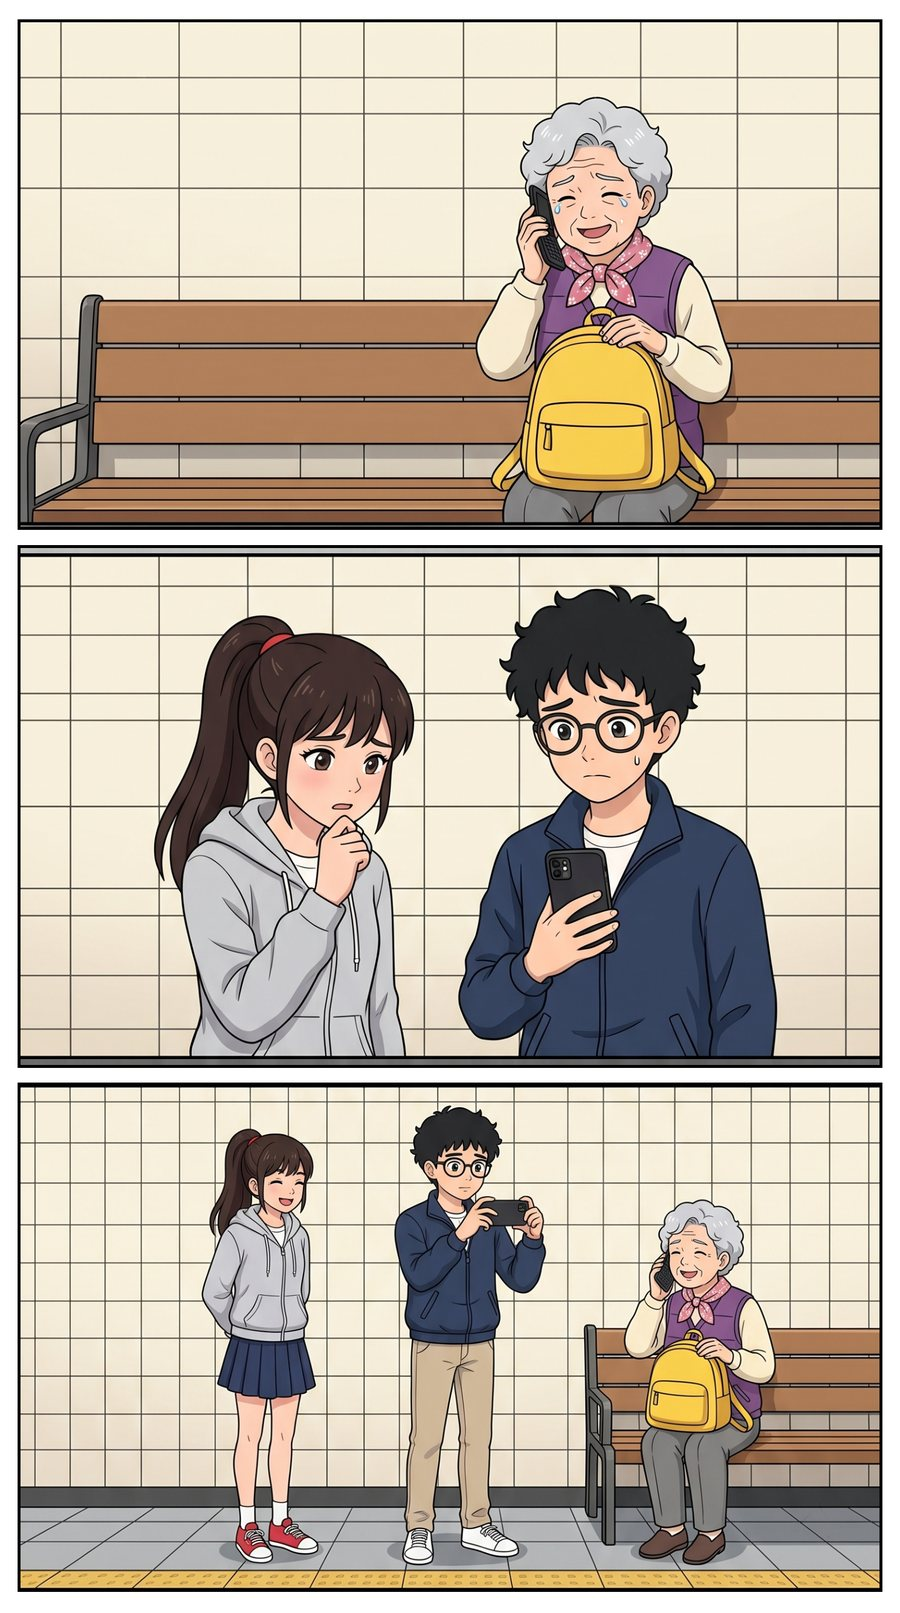
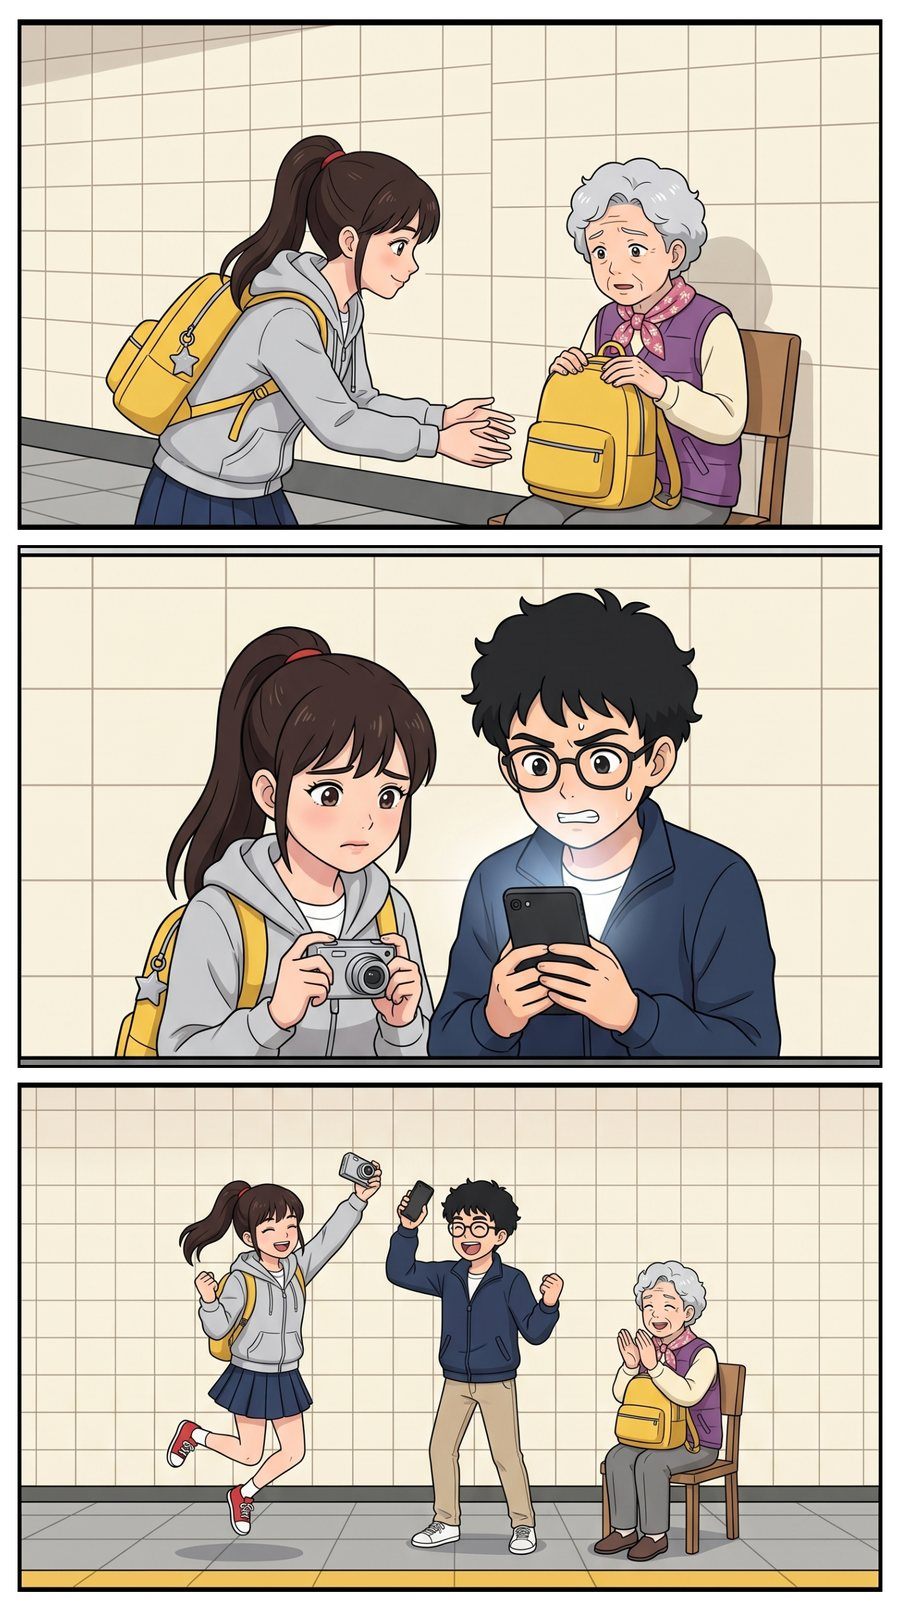
가방이 바뀌었다 8화를 새 결말로 — 범인이 잡히고 카메라를 되찾아 5:59에 올린다

diff --git a/toon/bag/index.html b/toon/bag/index.html
@@ -121,10 +121,10 @@
 <section class="ep" id="ep5" aria-labelledby="t5"><div class="ep-head"><span class="cap">5화</span><h2 id="t5">알겠다</h2><span class="when">5:05 PM · 21과 get</span></div><figure class="shot"><figcaption class="cap">5화 1장</figcaption><div class="pg" tabindex="0" role="button" aria-pressed="true" aria-label="5화 1장 말풍선 끄고 켜기"><img src="img/05-1.jpg" width="900" height="1613" loading="lazy" alt="5화 1장 웹툰 그림. 컷 세 개가 위에서 아래로"><div class="b scr" style="left:49.0%;top:9.8%;transform:translate(-50%,-50%)"><span class="h">Message · Unknown · 2:30 PM</span><span>My friend will get the bag.</span><span>City Hall Station. 3 PM. Come alone.</span></div><p class="b say" style="left:50%;top:34.7%">I get it. It&#x27;s her money. He&#x27;s a scammer.</p><div class="b scr" style="left:50%;top:68.3%"><span class="h">New message · now</span><span>I got your student card.</span><span>Lockers. 5:20. Or I visit your school.</span></div><p class="b chip" style="right:3.0%;top:28.7%">5:00 PM · 1h left</p></div><ul class="mean"><li><span class="who">컷 1 · 시각</span><span class="en">5:00 PM · 1h left</span><span class="ko">오후 5시 · 마감 1시간 전</span></li><li><span class="who">컷 1 · 폰 화면</span><span class="en">Message · Unknown · 2:30 PM / My friend will get the bag. / City Hall Station. 3 PM. Come alone.</span><span class="ko">문자 · 모르는 번호 · 오후 2시 30분 / 내 친구가 가방을 받으러 갈 거야. / 시청역. 오후 3시. 혼자 와.</span></li><li><span class="who">컷 2 · 개똥이</span><span class="en">I get it. It&#x27;s her money. He&#x27;s a scammer.</span><span class="ko">알겠다. 할머니 돈이야. 저 사람 사기꾼이야.</span></li><li><span class="who">컷 3 · 폰 화면</span><span class="en">New message · now / I got your student card. / Lockers. 5:20. Or I visit your school.</span><span class="ko">새 문자 · 방금 / 네 학생증, 나한테 있다. / 사물함. 5시 20분. 아니면 너희 학교로 간다.</span></li></ul></figure><figure class="shot"><figcaption class="cap">5화 2장</figcaption><div class="pg" tabindex="0" role="button" aria-pressed="true" aria-label="5화 2장 말풍선 끄고 켜기"><img src="img/05-2.jpg" width="900" height="1613" loading="lazy" alt="5화 2장 웹툰 그림. 컷 세 개가 위에서 아래로"><p class="b say" style="left:50%;top:34.9%">There! How did he get here first?</p><p class="b say" style="left:27%;top:68.2%">삼룡이, go get help. I&#x27;ll stall him.</p><p class="b chip" style="right:3.0%;top:29.1%">5:05 PM · City Hall</p></div><ul class="mean"><li><span class="who">컷 1 · 시각</span><span class="en">5:05 PM · City Hall</span><span class="ko">오후 5시 5분 · 시청역</span></li><li><span class="who">컷 2 · 삼룡이</span><span class="en">There! How did he get here first?</span><span class="ko">저기! 어떻게 먼저 와 있지?</span></li><li><span class="who">컷 3 · 개똥이</span><span class="en">삼룡이, go get help. I&#x27;ll stall him.</span><span class="ko">삼룡아, 가서 도움 불러와. 내가 시간 끌게.</span></li></ul></figure></section>
 <section class="ep" id="ep6" aria-labelledby="t6"><div class="ep-head"><span class="cap">6화</span><h2 id="t6">두 가방</h2><span class="when">5:20 PM · 22과 take</span></div><figure class="shot"><figcaption class="cap">6화 1장</figcaption><div class="pg" tabindex="0" role="button" aria-pressed="true" aria-label="6화 1장 말풍선 끄고 켜기"><img src="img/06-1.jpg" width="900" height="1613" loading="lazy" alt="6화 1장 웹툰 그림. 컷 세 개가 위에서 아래로"><p class="b say" style="left:27%;top:2.3%">I&#x27;m here. Alone. Where&#x27;s my camera?</p><p class="b say" style="left:24%;top:34.9%">Take yours. Your little film is safe.</p><p class="b chip" style="right:3.0%;top:29.1%">5:20 PM · 40 min left</p></div><ul class="mean"><li><span class="who">컷 1 · 시각</span><span class="en">5:20 PM · 40 min left</span><span class="ko">오후 5시 20분 · 마감 40분 전</span></li><li><span class="who">컷 1 · 개똥이</span><span class="en">I&#x27;m here. Alone. Where&#x27;s my camera?</span><span class="ko">왔어요. 혼자. 내 카메라 어딨어요?</span></li><li><span class="who">컷 2 · 모자 남자</span><span class="en">Take yours. Your little film is safe.</span><span class="ko">네 거 가져가. 네 영화는 멀쩡해.</span></li></ul></figure><figure class="shot"><figcaption class="cap">6화 2장</figcaption><div class="pg" tabindex="0" role="button" aria-pressed="true" aria-label="6화 2장 말풍선 끄고 켜기"><img src="img/06-2.jpg" width="900" height="1613" loading="lazy" alt="6화 2장 웹툰 그림. 컷 세 개가 위에서 아래로"><p class="b say" style="left:50%;top:2.3%">And I take mine. Nobody gets hurt.</p><p class="b say" style="left:50%;top:34.9%">It&#x27;s not yours.</p><p class="b say" style="left:66%;top:68.2%;max-width:62%">Stop! You can&#x27;t take that!</p></div><ul class="mean"><li><span class="who">컷 1 · 모자 남자</span><span class="en">And I take mine. Nobody gets hurt.</span><span class="ko">난 내 걸 가져가고. 아무도 안 다친다.</span></li><li><span class="who">컷 2 · 개똥이</span><span class="en">It&#x27;s not yours.</span><span class="ko">그거 아저씨 거 아니잖아요.</span></li><li><span class="who">컷 3 · 모자 남자</span><span class="en">Stop! You can&#x27;t take that!</span><span class="ko">거기 서! 그건 못 가져가!</span></li></ul></figure></section>
 <section class="ep" id="ep7" aria-labelledby="t7"><div class="ep-head"><span class="cap">7화</span><h2 id="t7">찍혔다</h2><span class="when">5:35 PM · 23과 have · get · take</span></div><figure class="shot"><figcaption class="cap">7화 1장</figcaption><div class="pg" tabindex="0" role="button" aria-pressed="true" aria-label="7화 1장 말풍선 끄고 켜기"><img src="img/07-1.jpg" width="900" height="1613" loading="lazy" alt="7화 1장 웹툰 그림. 컷 세 개가 위에서 아래로"><p class="b say" style="left:57%;top:2.3%;--tail:75%">Let go, kid. Now!</p><p class="b say" style="left:24%;top:34.9%">Hey! I&#x27;ve got your face on camera!</p><p class="b say" style="left:27%;top:68.2%">Everything. I got it all on video.</p><p class="b chip" style="left:3.0%;top:29.1%">5:35 PM · 25 min left</p></div><ul class="mean"><li><span class="who">컷 1 · 시각</span><span class="en">5:35 PM · 25 min left</span><span class="ko">오후 5시 35분 · 마감 25분 전</span></li><li><span class="who">컷 1 · 모자 남자</span><span class="en">Let go, kid. Now!</span><span class="ko">놔, 꼬마. 당장!</span></li><li><span class="who">컷 2 · 삼룡이</span><span class="en">Hey! I&#x27;ve got your face on camera!</span><span class="ko">아저씨! 얼굴 다 찍혔어요!</span></li><li><span class="who">컷 3 · 삼룡이</span><span class="en">Everything. I got it all on video.</span><span class="ko">전부요. 다 영상으로 찍었어요.</span></li></ul></figure><figure class="shot"><figcaption class="cap">7화 2장</figcaption><div class="pg" tabindex="0" role="button" aria-pressed="true" aria-label="7화 2장 말풍선 끄고 켜기"><img src="img/07-2.jpg" width="900" height="1613" loading="lazy" alt="7화 2장 웹툰 그림. 컷 세 개가 위에서 아래로"><p class="b say" style="left:76%;top:2.3%">Hey! You! Stop right there!</p><p class="b say" style="left:27%;top:68.4%">He took my bag. Our film...</p></div><ul class="mean"><li><span class="who">컷 1 · 역무원</span><span class="en">Hey! You! Stop right there!</span><span class="ko">거기! 당신! 멈춰요!</span></li><li><span class="who">컷 3 · 개똥이</span><span class="en">He took my bag. Our film...</span><span class="ko">내 가방을 가져갔어. 우리 영화…</span></li></ul></figure></section>
-<section class="ep" id="ep8" aria-labelledby="t8"><div class="ep-head"><span class="cap">8화</span><h2 id="t8">주인</h2><span class="when">5:50 PM · 24과 총정리</span></div><figure class="shot"><figcaption class="cap">8화 1장</figcaption><div class="pg" tabindex="0" role="button" aria-pressed="true" aria-label="8화 1장 말풍선 끄고 켜기"><img src="img/08-1.jpg" width="900" height="1613" loading="lazy" alt="8화 1장 웹툰 그림. 컷 세 개가 위에서 아래로"><div class="b scr" style="left:45.8%;top:10.2%;transform:translate(-50%,-50%)"><span class="h">Incoming call</span><span>My grandson ♥</span></div><p class="b say" style="left:27%;top:34.8%">I have your grandma&#x27;s bag. I see her.</p><p class="b say" style="left:27%;top:68.4%">You have your bag.</p><p class="b chip" style="right:3.0%;top:28.9%">5:50 PM · 10 min left</p></div><ul class="mean"><li><span class="who">컷 1 · 시각</span><span class="en">5:50 PM · 10 min left</span><span class="ko">오후 5시 50분 · 마감 10분 전</span></li><li><span class="who">컷 1 · 폰 화면</span><span class="en">Incoming call / My grandson ♥</span><span class="ko">전화가 온다 / 우리 손주 ♥</span></li><li><span class="who">컷 2 · 개똥이</span><span class="en">I have your grandma&#x27;s bag. I see her.</span><span class="ko">할머니 가방 저한테 있어요. 할머니가 보여요.</span></li><li><span class="who">컷 3 · 개똥이</span><span class="en">You have your bag.</span><span class="ko">할머니 가방, 이제 할머니한테 있어요.</span></li></ul></figure><figure class="shot"><figcaption class="cap">8화 2장</figcaption><div class="pg" tabindex="0" role="button" aria-pressed="true" aria-label="8화 2장 말풍선 끄고 켜기"><img src="img/08-2.jpg" width="900" height="1613" loading="lazy" alt="8화 2장 웹툰 그림. 컷 세 개가 위에서 아래로"><p class="b say" style="left:75%;top:2.3%;--tail:22%">You&#x27;re safe. And I got it back.</p><p class="b say call" style="left:27%;top:2.3%;--tail:80%">Grandma! I never had an accident! I&#x27;m okay!</p><div class="b scr" style="left:26%;top:34.9%"><span class="h">Student Video Contest</span><span>6:00 PM · Uploads closed.</span></div><p class="b say" style="left:74%;top:34.9%">It&#x27;s six. We didn&#x27;t get it back.</p><p class="b say" style="left:27%;top:68.2%">We have a new story. Roll camera.</p><p class="b chip" style="right:3.0%;top:29.1%">6:00 PM</p></div><ul class="mean"><li><span class="who">컷 1 · 시각</span><span class="en">6:00 PM</span><span class="ko">오후 6시 · 마감</span></li><li><span class="who">컷 1 · 전화 · 할머니 손주</span><span class="en">Grandma! I never had an accident! I&#x27;m okay!</span><span class="ko">할머니! 나 사고 난 적 없어! 나 괜찮아!</span></li><li><span class="who">컷 1 · 할머니</span><span class="en">You&#x27;re safe. And I got it back.</span><span class="ko">네가 무사하구나. 돈도 찾았단다.</span></li><li><span class="who">컷 2 · 폰 화면</span><span class="en">Student Video Contest / 6:00 PM · Uploads closed.</span><span class="ko">학생 영상 대회 / 오후 6시 · 올리기 마감.</span></li><li><span class="who">컷 2 · 삼룡이</span><span class="en">It&#x27;s six. We didn&#x27;t get it back.</span><span class="ko">6시야. 우리 건 못 찾았네.</span></li><li><span class="who">컷 3 · 개똥이</span><span class="en">We have a new story. Roll camera.</span><span class="ko">새 이야기가 생겼어. 카메라 돌려.</span></li></ul></figure></section>
+<section class="ep" id="ep8" aria-labelledby="t8"><div class="ep-head"><span class="cap">8화</span><h2 id="t8">주인</h2><span class="when">5:45 PM · 24과 총정리</span></div><figure class="shot"><figcaption class="cap">8화 1장</figcaption><div class="pg" tabindex="0" role="button" aria-pressed="true" aria-label="8화 1장 말풍선 끄고 켜기"><img src="img/08-1.jpg" width="900" height="1613" loading="lazy" alt="8화 1장 웹툰 그림. 컷 세 개가 위에서 아래로"><p class="b say" style="left:46%;top:1.4%;--tail:80%;max-width:40%">This train isn&#x27;t going anywhere.</p><p class="b say" style="left:83%;top:1.4%;--tail:50%;max-width:33%">Off the train. Now.</p><p class="b say" style="left:43%;top:34.0%;--tail:75%">That&#x27;s not my bag!</p><p class="b say" style="left:81%;top:34.0%;--tail:30%;max-width:36%">We know. We&#x27;ve got the video.</p><p class="b say" style="left:52%;top:73.7%;--tail:12%;max-width:30%">Yes! It&#x27;s mine!</p><p class="b say" style="left:52%;top:67.4%;--tail:80%">Is this yours?</p><p class="b chip" style="right:3.0%;top:29.1%">5:45 PM · 15 min left</p></div><ul class="mean"><li><span class="who">컷 1 · 시각</span><span class="en">5:45 PM · 15 min left</span><span class="ko">오후 5시 45분 · 마감 15분 전</span></li><li><span class="who">컷 1 · 역무원</span><span class="en">This train isn&#x27;t going anywhere.</span><span class="ko">이 열차는 아무 데도 안 가.</span></li><li><span class="who">컷 1 · 경찰관</span><span class="en">Off the train. Now.</span><span class="ko">열차에서 내려요. 당장.</span></li><li><span class="who">컷 2 · 모자 남자</span><span class="en">That&#x27;s not my bag!</span><span class="ko">그거 내 가방 아니야!</span></li><li><span class="who">컷 2 · 경찰관</span><span class="en">We know. We&#x27;ve got the video.</span><span class="ko">알아요. 영상이 다 있거든요.</span></li><li><span class="who">컷 3 · 경찰관</span><span class="en">Is this yours?</span><span class="ko">이거 학생 거예요?</span></li><li><span class="who">컷 3 · 개똥이</span><span class="en">Yes! It&#x27;s mine!</span><span class="ko">네! 제 거예요!</span></li></ul></figure><figure class="shot"><figcaption class="cap">8화 2장</figcaption><div class="pg" tabindex="0" role="button" aria-pressed="true" aria-label="8화 2장 말풍선 끄고 켜기"><img src="img/08-2.jpg" width="900" height="1613" loading="lazy" alt="8화 2장 웹툰 그림. 컷 세 개가 위에서 아래로"><p class="b say" style="left:26%;top:2.3%">You have your bag.</p><p class="b say" style="left:74%;top:2.3%">You got it back... for me?</p><div class="b scr" style="left:26%;top:34.9%"><span class="h">Student Video Contest</span><span>Uploading… 99%</span><span>5:59 PM</span></div><p class="b say" style="left:74%;top:34.9%">Come on. Come on. Come on!</p><p class="b say" style="left:20%;top:67.7%;--tail:65%;max-width:38%">We have our film. And she has hers.</p><p class="b say" style="left:64%;top:67.7%;--tail:18%">Uploaded! At 5:59!</p><p class="b chip" style="right:3.0%;top:29.1%">5:55 PM · 5 min left</p><p class="b chip" style="right:3.0%;top:94.9%">6:00 PM</p></div><ul class="mean"><li><span class="who">컷 1 · 시각</span><span class="en">5:55 PM · 5 min left</span><span class="ko">오후 5시 55분 · 마감 5분 전</span></li><li><span class="who">컷 1 · 개똥이</span><span class="en">You have your bag.</span><span class="ko">할머니 가방이에요. 이제 할머니한테 있어요.</span></li><li><span class="who">컷 1 · 할머니</span><span class="en">You got it back... for me?</span><span class="ko">그걸… 나 주려고 찾아왔니?</span></li><li><span class="who">컷 2 · 폰 화면</span><span class="en">Student Video Contest / Uploading… 99% / 5:59 PM</span><span class="ko">학생 영상 대회 / 올리는 중… 99% / 오후 5시 59분</span></li><li><span class="who">컷 2 · 삼룡이</span><span class="en">Come on. Come on. Come on!</span><span class="ko">제발. 제발. 제발!</span></li><li><span class="who">컷 3 · 시각</span><span class="en">6:00 PM</span><span class="ko">오후 6시</span></li><li><span class="who">컷 3 · 개똥이</span><span class="en">We have our film. And she has hers.</span><span class="ko">우린 영화를 찾았고, 할머니는 할머니 걸 찾았어.</span></li><li><span class="who">컷 3 · 삼룡이</span><span class="en">Uploaded! At 5:59!</span><span class="ko">올라갔어! 5시 59분에!</span></li></ul></figure></section>
   <section class="note-box outro" aria-label="다 읽고 나서">
     <span class="cap">다 읽고 나서</span>
-    <p>개똥이는 자기 가방을 잃었어요. 영화도, 6시도 놓쳤어요. 대신 <b>할머니 가방을 할머니에게 돌려줬어요.</b> 그리고 삼룡이가 새 영상을 찍기 시작해요.</p>
+    <p>모자 남자는 열차 앞에서 잡혔어요. 삼룡이가 찍은 영상 덕분이에요. 개똥이는 자기 가방을 되찾았고, <b>할머니 가방은 할머니에게 돌려줬어요.</b> 영화는 마감 1분 전, 5시 59분에 올라갔어요.</p>
     <p>이 만화를 꿰는 문장 셋이에요. have는 「가지고 있다」예요. 가방이 누구 손에 있는지가 이 이야기 전부예요.</p>
     <ol class="keys">
       <li><span class="kn">1화</span><span class="en">You have my bag.</span><span class="ko">모자 남자가 건 첫 전화</span></li>
